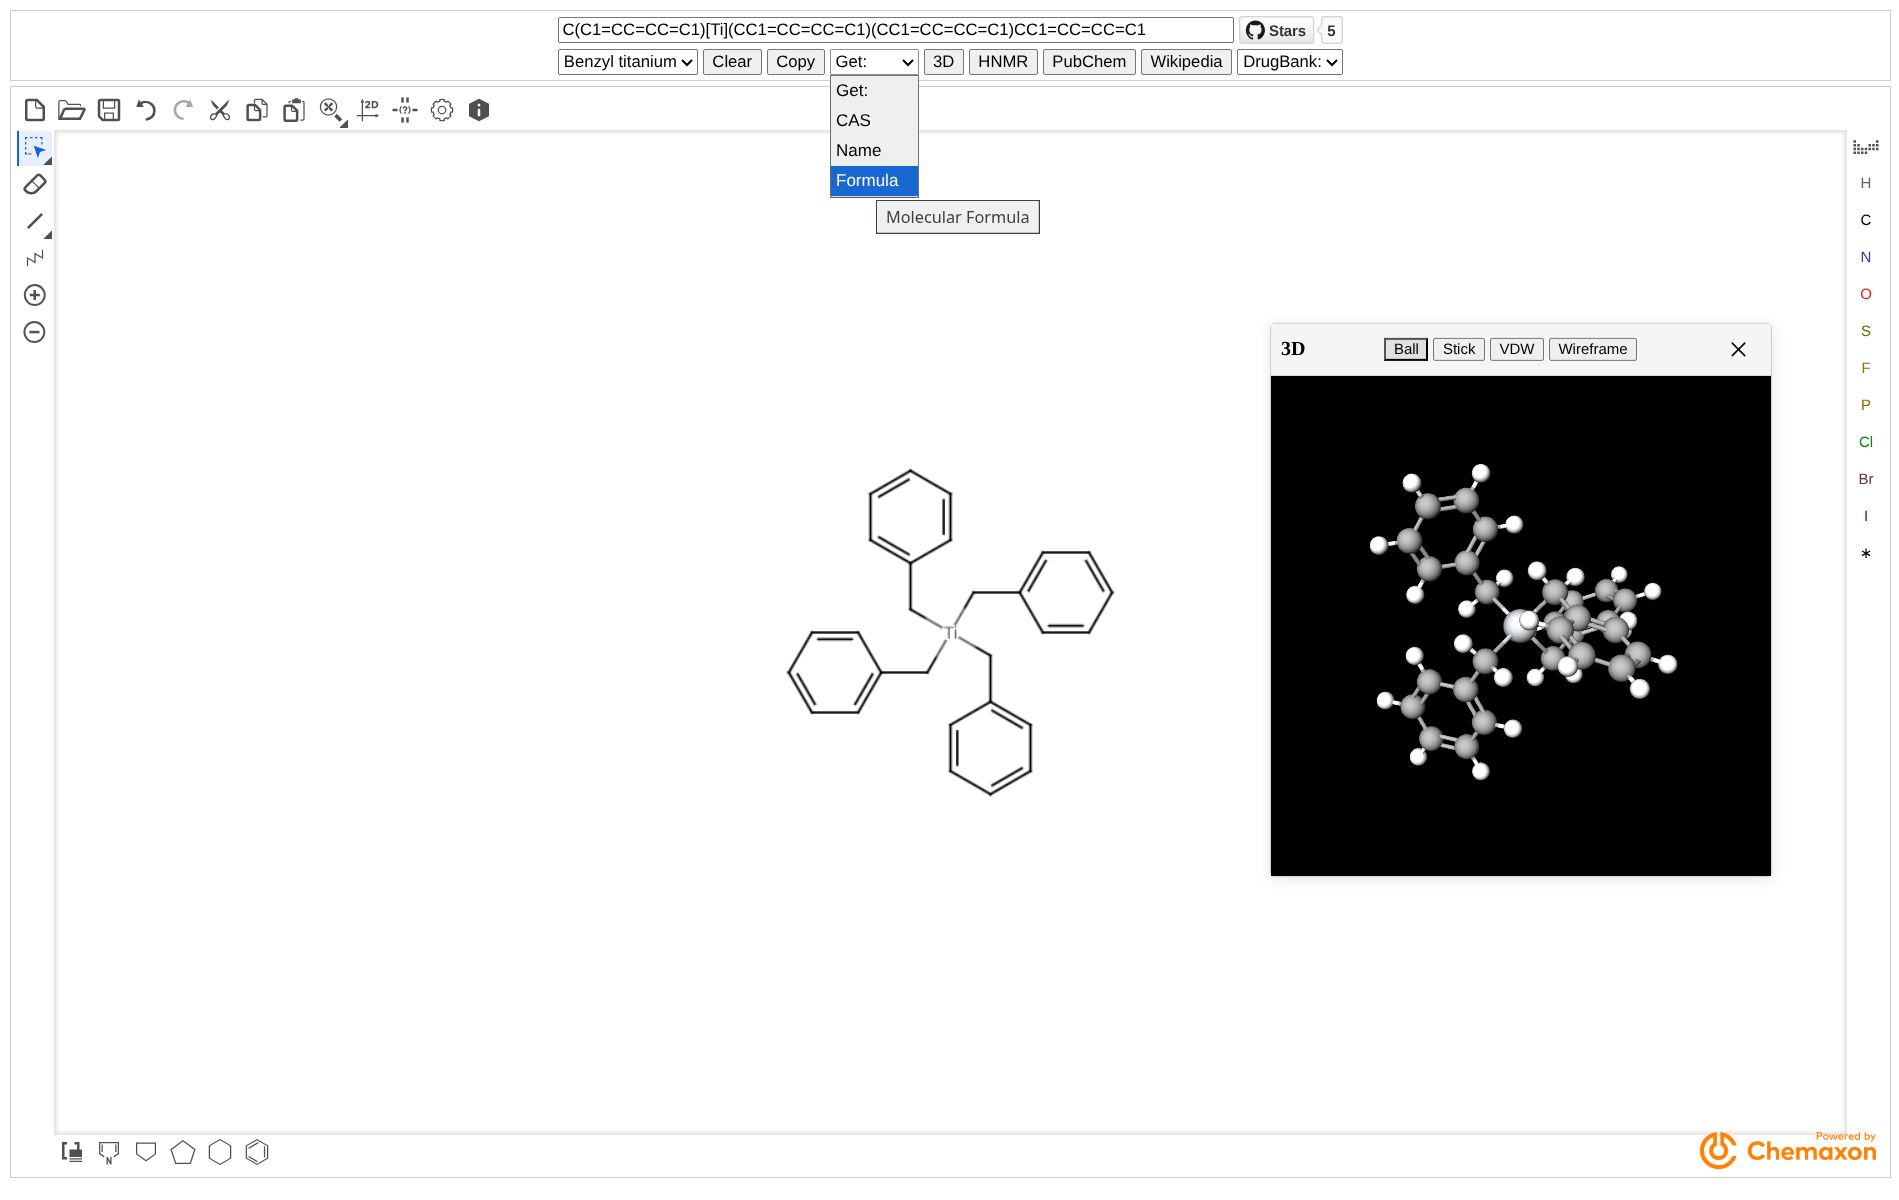
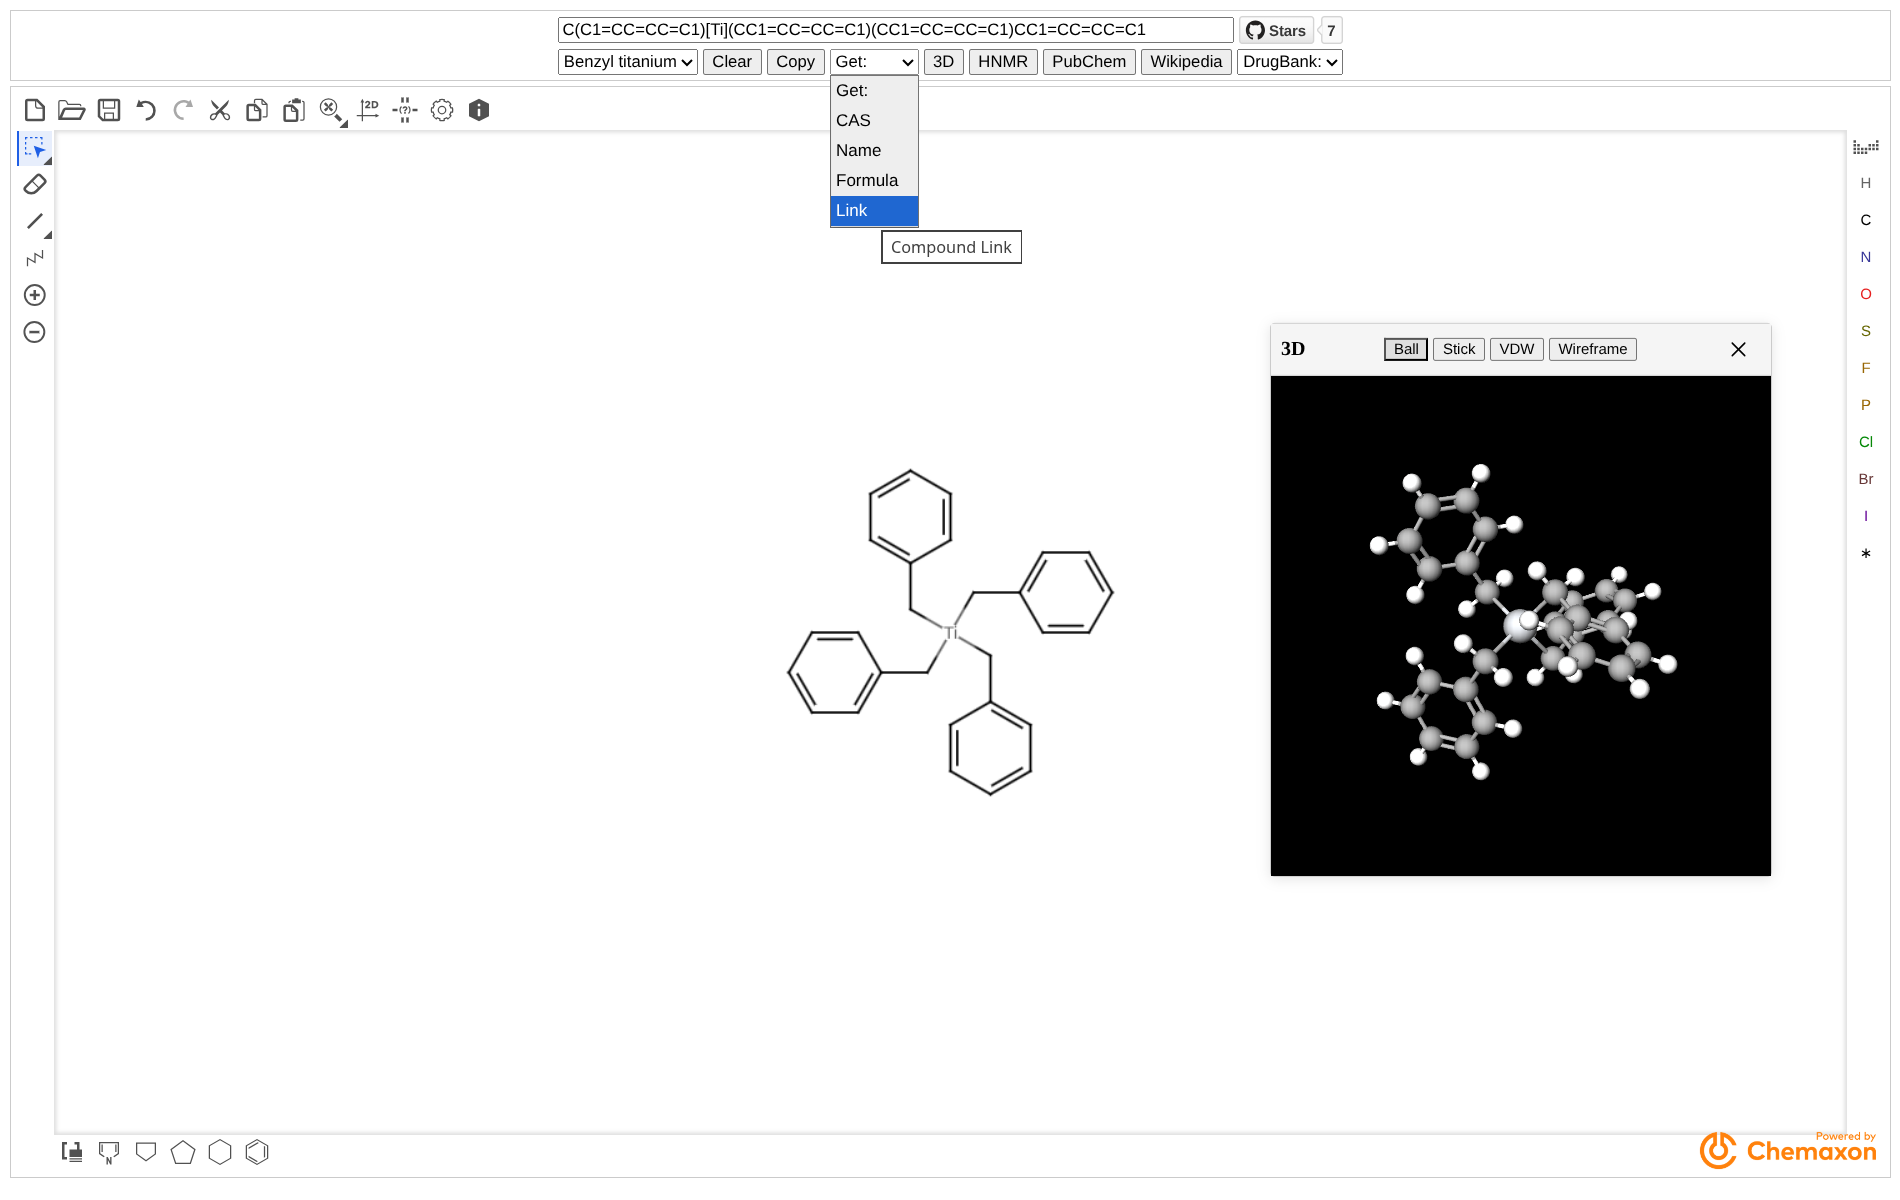
Feat: supports passing smiles via URL and get compound link

diff --git a/public/marvin/js/smiles.js b/public/marvin/js/smiles.js
@@ -77,6 +77,41 @@ let PARENT_FRAME_ORIGIN = null; // 用于存储父窗口的源
                 marvin.sketcherInstance = new marvin.Sketch("sketch");
                 marvin.sketcherInstance.setServices(getDefaultServices());
 
+                // Load initial SMILES from URL if provided
+                if (window.initialSmiles) {
+                    console.log("Attempting to load SMILES from URL:", window.initialSmiles);
+                    marvin.sketcherInstance.importStructure("smiles", window.initialSmiles)
+                        .then(() => {
+                            console.log("SMILES successfully loaded into editor:", window.initialSmiles);
+                            // Force a redraw of the canvas
+                            if (marvin.sketcherInstance && marvin.sketcherInstance.editor) {
+                                marvin.sketcherInstance.editor.repaint();
+                            }
+                            
+                            if (PARENT_FRAME_ORIGIN) {
+                                window.parent.postMessage({ 
+                                    type: 'smilesChangedInSketcher', 
+                                    value: window.initialSmiles 
+                                }, PARENT_FRAME_ORIGIN);
+                            }
+                        })
+                        .catch(error => {
+                            console.error("Error loading initial SMILES:", error);
+                            // Try to get more detailed error information
+                            if (error && error.message) {
+                                console.error("Error details:", error.message);
+                            }
+                            // Try to export the current structure to see what's in the editor
+                            if (marvin.sketcherInstance) {
+                                marvin.sketcherInstance.exportStructure("smiles")
+                                    .then(smiles => console.log("Current editor SMILES:", smiles))
+                                    .catch(e => console.error("Could not export current structure:", e));
+                            }
+                        });
+                } else {
+                    console.log("No initial SMILES found in URL");
+                }
+
                 // Add event listener for structure changes
                 marvin.sketcherInstance.on('molchange', function() {
                     if (!PARENT_FRAME_ORIGIN) {

diff --git a/public/marvin/editorws.html b/public/marvin/editorws.html
@@ -8,6 +8,45 @@
     <link type="text/css" rel="stylesheet" href="gui/css/editor.min.css" media="screen" />
     <script src="gui/lib/promise-1.0.0.min.js"></script>
     <script src="js/webservices.js"></script>
+    <script>
+        // Function to get URL parameters
+        function getUrlParameter(name) {
+            try {
+                name = name.replace(/[\[]/, '\\[').replace(/[\]]/, '\\]');
+                var regex = new RegExp('[\\?&]' + name + '=([^&#]*)');
+                var results = regex.exec(location.search);
+                var result = results === null ? '' : decodeURIComponent(results[1].replace(/\+/g, ' '));
+                console.log('URL parameter', name, '=', result);
+                return result;
+            } catch (e) {
+                console.error('Error getting URL parameter:', e);
+                return '';
+            }
+        }
+
+        // Store the SMILES parameter from URL
+        window.initialSmiles = getUrlParameter('smiles');
+        console.log('Initial SMILES from URL:', window.initialSmiles);
+        
+        // Initialize marvin object
+        window.marvin = window.marvin || {};
+        
+        // Add onReady function to handle initialization
+        marvin.onReady = function(callback) {
+            if (marvin.sketcherInstance) {
+                callback();
+            } else {
+                var checkExist = setInterval(function() {
+                    if (marvin.sketcherInstance) {
+                        clearInterval(checkExist);
+                        callback();
+                    }
+                }, 100);
+            }
+        };
+        
+        console.log('Marvin global object initialized:', window.marvin);
+    </script>
     <script src="gui/gui.nocache.js"></script>
     <script src="js/smiles.js"></script>
 </head>

diff --git a/src/components/ControlPanel.vue b/src/components/ControlPanel.vue
@@ -39,6 +39,7 @@
           <option value="cas">CAS</option>
           <option value="iupac" title="IUPACName">Name</option>
           <option value="formula" title="Molecular Formula">Formula</option>
+          <option value="link" title="Compound Link">Link</option>
         </select>
         <button @click="handle3DView">3D</button>
         <button @click="handleHNMR">HNMR</button>
@@ -221,10 +222,25 @@ export default {
       this.smilesValue = '';
     },
 
-    handleCopy() {
-      if (this.smilesValue) {
-        navigator.clipboard.writeText(this.smilesValue);
+    handleCopy(type = 'smiles') {
+      if (!this.smilesValue) return;
+      
+      let textToCopy = '';
+      if (type === 'smiles') {
+        textToCopy = this.smilesValue;
+      } else if (type === 'link') {
+        const currentUrl = new URL(window.location.href);
+        currentUrl.searchParams.set('smiles', this.smilesValue);
+        textToCopy = currentUrl.toString();
       }
+      
+      navigator.clipboard.writeText(textToCopy).catch(err => {
+        console.error('Failed to copy:', err);
+      });
+    },
+    
+    handleCopyClick(event) {
+      event.stopPropagation();
     },
 
     async ensureCID() {
@@ -401,7 +417,10 @@ export default {
     handleGetSelect(event) {
       const value = event.target.value;
       if (!this.smilesValue || !value) return;
-      if (value === 'cas' || value === 'iupac' || value === 'formula') {
+      
+      if (value === 'link') {
+        this.handleCopy('link');
+      } else if (value === 'cas' || value === 'iupac' || value === 'formula') {
         this.handleGet(value);
       }
       event.target.value = '';

diff --git a/src/components/MarvinEditor.vue b/src/components/MarvinEditor.vue
@@ -1,7 +1,7 @@
 <template>
   <div class="control-panel">
     <iframe id="marvinFrame"
-    src="marvin/editorws.html"
+    :src="marvinUrl"
     class="marvin-frame"
     allow="clipboard-read; clipboard-write"
     @load="handleIframeLoad">
@@ -12,6 +12,19 @@
 <script>
 export default {
   name: 'MarvinEditor',
+  computed: {
+    marvinUrl() {
+      const urlParams = new URLSearchParams(window.location.search);
+      const smiles = urlParams.get('smiles');
+      
+      let marvinUrl = 'marvin/editorws.html';
+      if (smiles) {
+        marvinUrl += `?smiles=${encodeURIComponent(smiles)}`;
+      }
+      
+      return marvinUrl;
+    }
+  },
   methods: {
     handleIframeLoad() {
       // 通知父组件 iframe 已加载

diff --git a/README_en.md b/README_en.md
@@ -30,6 +30,7 @@ Powered by [Chemaxon](https://chemaxon.com)
 ## Functionality
 
 - Real-time conversion of smiles and mol
+- Supports passing smiles via URL https://structuredsearch.pages.dev/?smiles=C1=CC=CC=C1
 - Example:
     - Benzyl titanium
     - Pregabalin
@@ -42,6 +43,7 @@ Powered by [Chemaxon](https://chemaxon.com)
         - If the compound exists in the PubChem database, it is acquire directly
         - If the compound does not exist in the PubChem database, it is obtained through MarvinJS's naming service
     - Molecular Formula
+    - Compound Link https://structuredsearch.pages.dev/?smiles=C1%3DCC%3DCC%3DC1
 - 3D visualization
     - supports real-time updates with mol and smiles
     - types

diff --git a/README.md b/README.md
@@ -29,6 +29,7 @@ Powered by [Chemaxon](https://chemaxon.com)
 ## 功能
 
 - smiles与结构式互相转换
+- 支持smiles通过URL传入 https://structuredsearch.pages.dev/?smiles=C1=CC=CC=C1
 - Example:
     - Benzyl titanium (苄钛)
     - Pregabalin (普瑞巴林)
@@ -41,6 +42,7 @@ Powered by [Chemaxon](https://chemaxon.com)
         - 当pubchem数据库中存在该化合物则直接获取
         - 当pubchem数据库中不存在该化合物则通过marvinjs的命名服务获取
     - Molecular Formula (分子式)
+    - Compound Link https://structuredsearch.pages.dev/?smiles=C1%3DCC%3DCC%3DC1
 - 3D可视化
     - 可与结构式，smiles进行实时更新
     - 种类
